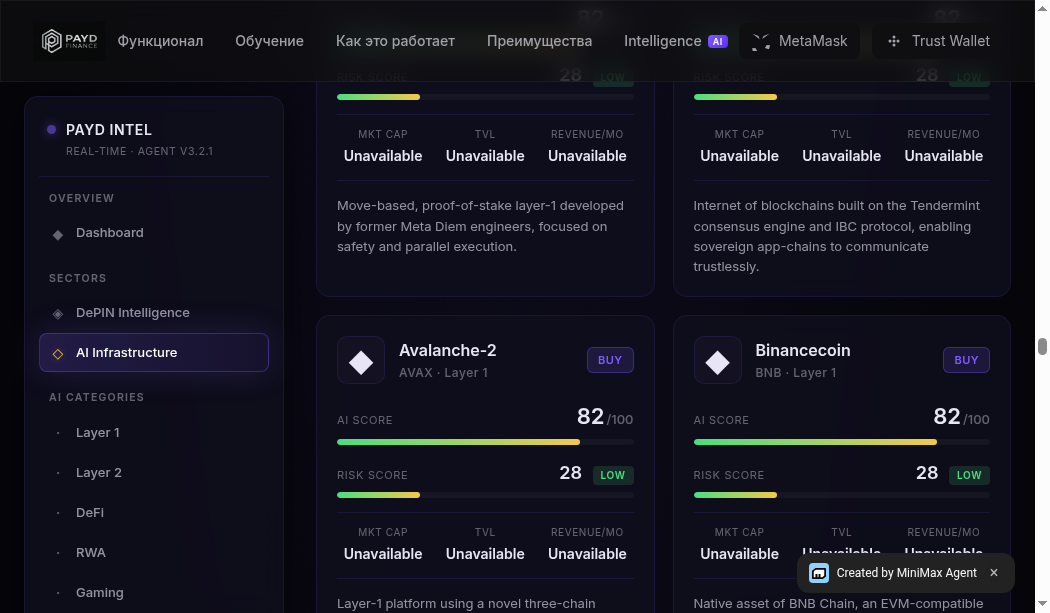
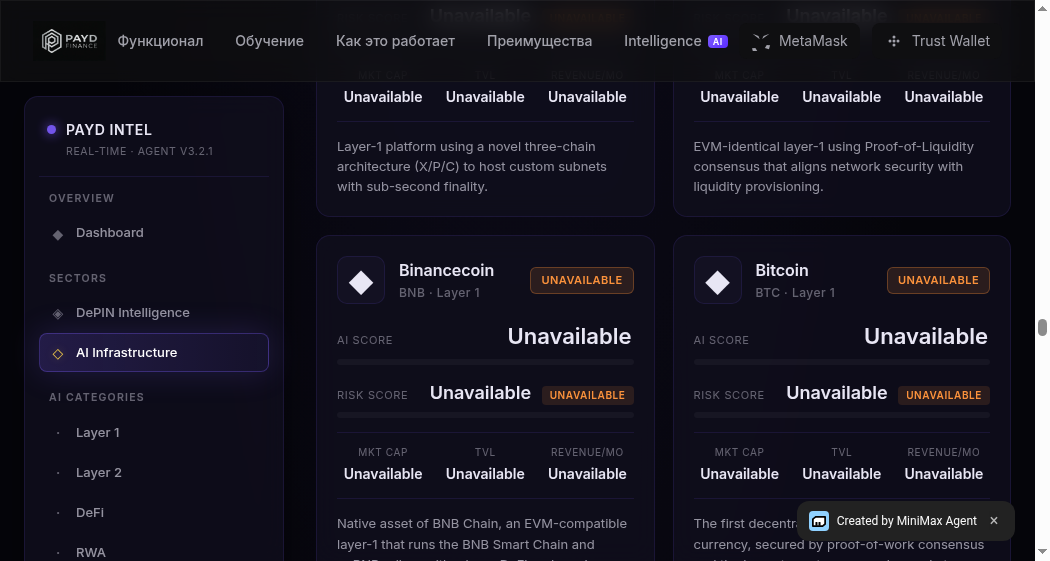
Message 422394049450173 - 1784681671

diff --git a/.memory/memories/payd_intel_null_safety_done.md b/.memory/memories/payd_intel_null_safety_done.md
@@ -1,0 +1,47 @@
+# PAYD Intelligence V2 — Null-Safety Audit Complete (2026-07-22)
+
+## ✅ Status: All 336 projects render without crashes
+
+## What was fixed
+Comprehensive null-safety audit across 3 files:
+- `public/js/intelligence/intelligence-data.js` — data adapter
+- `public/js/intelligence/intelligence-utils.js` — safe formatters & accessors
+- `public/js/intelligence/intelligence-render.js` — HTML rendering
+
+## Test results
+- **336/336** project detail pages render successfully
+- **336/336** project cards render successfully
+- **34/34** DePIN table rows render successfully
+- **16/16** null-safety utility scenarios pass
+- **0** null-reference crashes
+
+## Key changes
+
+### intelligence-data.js
+- Always creates parent objects (`metrics`, `github`, `tokenomics`, `social`, `community`, `links`, `market_data`, `ai_score_components`) — even if empty
+- Removed mock score generation (no more 82/68 defaults for projects without real scores)
+- `ai_score_history` is `[]` for projects without real scores (was `null` before)
+- Added `_v2_source` debug object to track V1/V2 field mapping
+
+### intelligence-utils.js (new functions)
+- `safeGet(obj, path, defaultVal)` — safe nested property access
+- `projField(p, ...path)` — safe sub-object field access (e.g. `projField(p, 'metrics', 'market_cap_usd')`)
+- `fmtFixed(n, digits)` — fixed-point formatter with null fallback
+- `fmtJoin(arr, sep)` — safe array join with null fallback
+- `safeArray(arr, defaultVal)` — returns `[]` if input not an array
+- All formatters (`fmtUSD`, `fmtScore`, `fmtNum`, `fmtDate`, `fmtLabel`, `fmtPct`, `fmtPctSafe`) return `'Unavailable'` on null/undefined
+
+### intelligence-render.js
+- All `p.metrics.X`, `p.github.X`, `p.tokenomics.X`, etc. → `U.projField(p, 'metrics', 'X')`
+- All array maps (`p.team.map`, `p.investors.map`, `p.roadmap.map`, etc.) → `U.safeArray(p.team, []).map`
+- Empty arrays now show `'Unavailable'` message instead of crashing
+- `p.ai_score_history[0]` access wrapped in IIFE that handles empty array
+- `p.ai_score_components[key]` wrapped in safe accessor
+- `u.pct.toFixed(2)` wrapped in `U.isAvailable(u.pct)` check
+
+## Test script
+`test-render-all.js` — comprehensive null-safety test using JSDOM. Tests all 336 projects through all major render paths. Run with `node test-render-all.js`.
+
+## Deployment
+Last successful URL: `https://3yvichmsajbl.space.minimax.io`
+Cache may show old version. Hard refresh (Ctrl+Shift+R) or clear browser cache.
